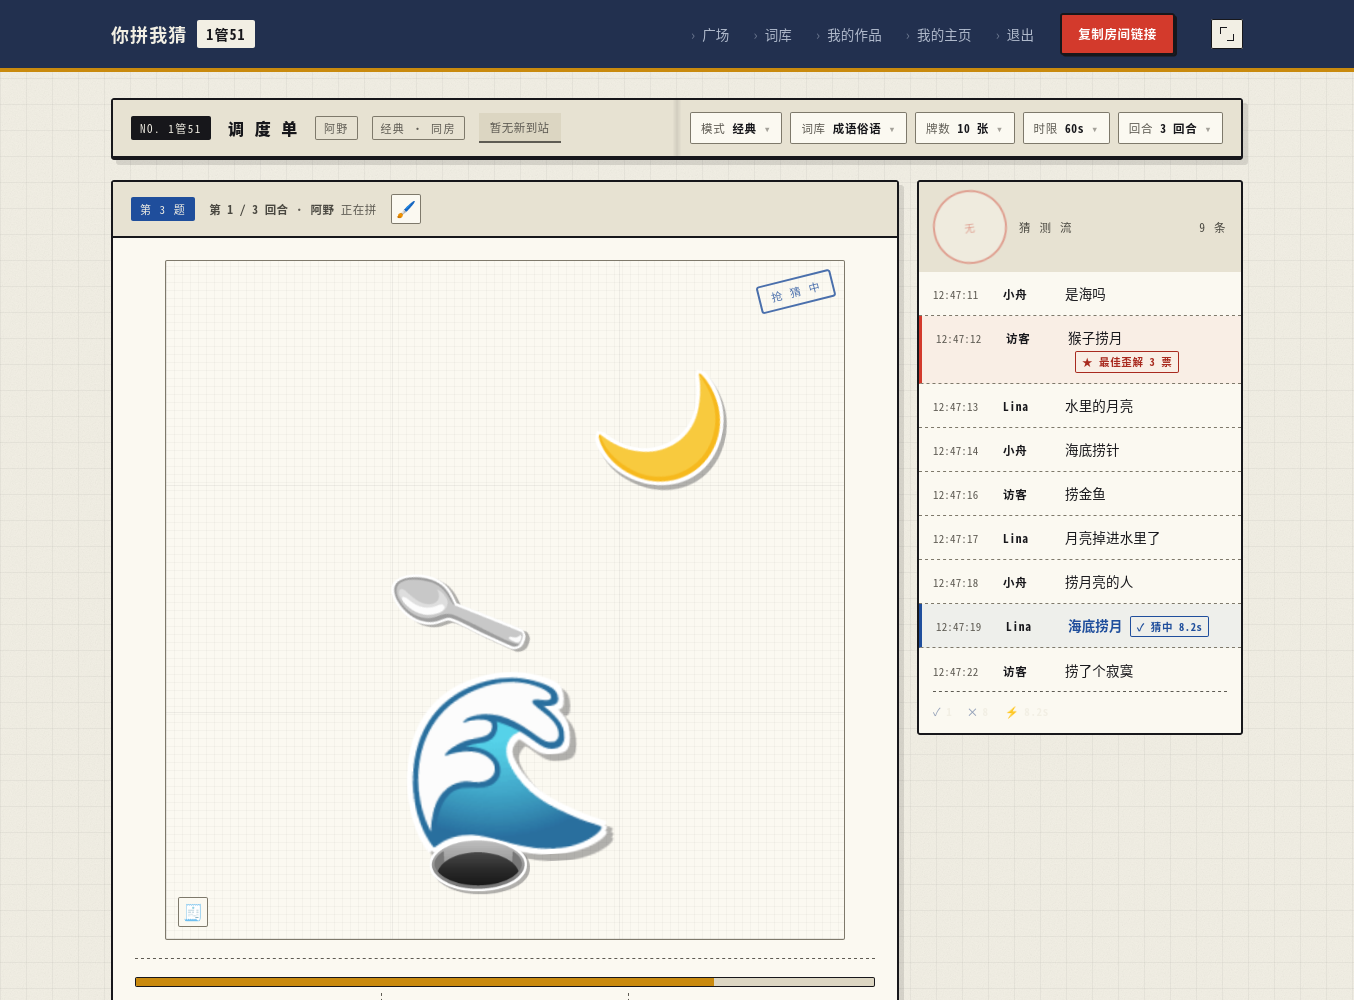
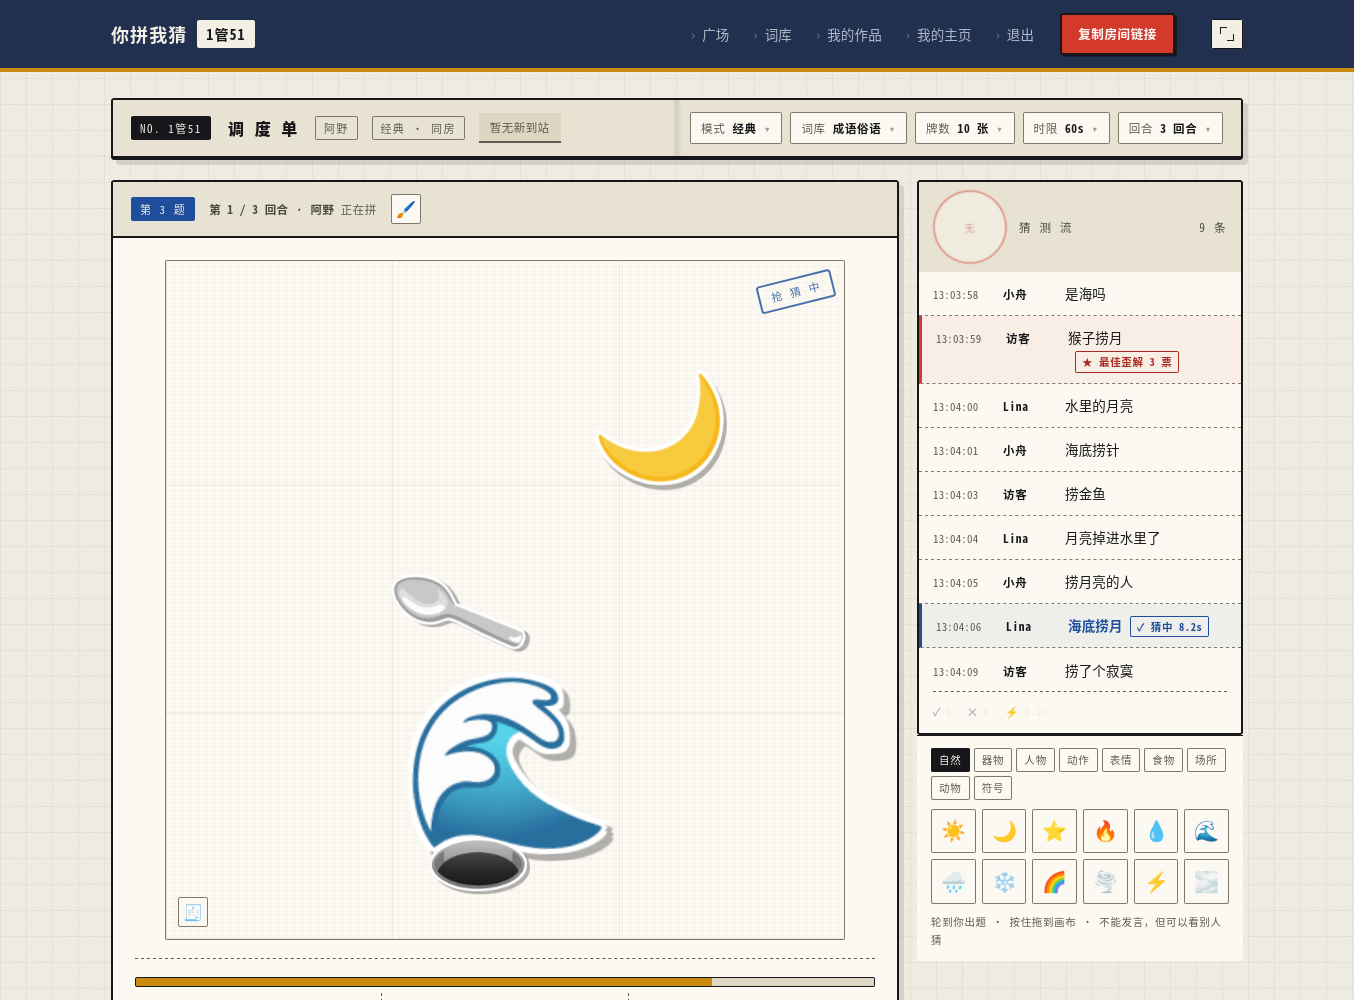
参考《破烂艺术家》的核心设计：一处替换承接两个冲突
用户指出的设计原则（记入 docs/19）：

> 在游戏房间中，绘制和观赏他人绘画的交互逻辑是不变的。
> 绘制和观赏只有两个不同点：**能否交流**、**能否修改画布**。
> 破烂艺术家用**一个修改承接两个逻辑冲突** ——
> 把交流区域中的「发表言论」替换为**素材区**。
> 一次修改，承接多个冲突。我认为这是非常优秀的设计。

## 拆解

多数人会做**两套界面**（绘制模式 / 观赏模式），各自摆面板、各自维护状态，
然后慢慢长歪。

它的做法是**界面只有一套**：

    同一块侧栏
    ├── 上面的交流记录    —— 两模式完全相同
    └── 底部的输入槽      —— 唯一差异点
            观赏态 → 发表言论（画布只读）
            绘制态 → 素材区  （画布可改，且不能发言）

**关键不在"换了什么"，而在"只换一处"** —— 因为两个冲突本来就同源：
*能改画布的人，就是不能说话的人*。它们该由**一个**开关驱动。

## 落地（房间页）

新增 `.flow-slot` —— 就是那个槽。`paintSlot()` 是唯一的开关：

    const isMe = drawer().n === ME;        // 轮到我画 = 绘制态
    canvas.classList.toggle("view-only", !isMe);
    slot.innerHTML = isMe ? 素材区 : (发表言论 + 发送 + 👍点赞)

- **素材数据与拼图台同一套**（`LIB`），不是抄一份
- 画布不是两套 —— 同一个画布挂 `.view-only`
- 挂在 `paintTurn()` 里，跟回合推进自动切

实测两态：绘制态 = 素材区；观赏态 = 输入框 + 发送 + 点赞 12。
上面的交流记录两态完全一致（绘制者「可以看别人交流并点赞」）。

## 这条原则的普适形式

我在同一件事上犯过至少三次同样的错 —— **给同源的冲突各配一个开关**：
`.bench` 的 6 条冲突定义、画布尺寸两页各写一套、`.col` 的 padding 修一边漏一边。

**同源的冲突，由一个开关驱动；一处替换，胜过两处分别维护。**

Changed region(s): [[0.6764, 0.744, 0.8917, 0.961]]

diff --git a/app/room.html b/app/room.html
@@ -233,6 +233,35 @@ footer.site a[aria-current]{color:var(--amber-lit)}
    用户要求「同一窗口尺寸下房间和拼图台画布大小应该一样」，
    左右两栏的宽度必须逐像素一致，画布才能一致。 */
 .grid3:not(.settled){grid-template-columns:minmax(0,1fr) 326px}
+
+/* ── 输入槽：绘制 / 观赏唯一的差异点 ───────────────────────────
+   参考《破烂艺术家》：一个修改承接两个逻辑冲突。
+   槽位本身不变，只换内容。 */
+.flow-slot{border-top:1.5px solid var(--ink);padding:12px 14px;
+  background:var(--paper-4);border-radius:0 0 var(--radius,2px) 2px}
+.flow-slot .say{display:flex;gap:8px;align-items:center}
+.flow-slot .say input{flex:1;min-width:0;font-family:var(--mono);font-size:12.5px;
+  padding:8px 10px;border:1.5px solid var(--ink);border-radius:2px;
+  background:var(--paper-4);color:var(--ink)}
+.flow-slot .say input::placeholder{color:var(--ink-2)}
+.flow-slot .say .like{white-space:nowrap}
+/* 绘制态：同一位置换成素材区 */
+.flow-slot .lib-tabs{display:flex;flex-wrap:wrap;gap:4px;margin-bottom:9px}
+.flow-slot .lib-tabs button{font-family:var(--mono);font-size:10.5px;letter-spacing:.08em;
+  padding:3px 7px;border:1.5px solid var(--ink-4);border-radius:2px;
+  background:var(--paper-4);color:var(--ink-3);cursor:pointer;line-height:1.5}
+.flow-slot .lib-tabs button.on{background:var(--ink);border-color:var(--ink);color:var(--paper)}
+.flow-slot .lib-grid{display:grid;grid-template-columns:repeat(6,minmax(0,1fr));gap:6px}
+.flow-slot .lib-grid button{aspect-ratio:1;display:grid;place-items:center;
+  font-family:var(--emoji);font-size:20px;line-height:1;
+  background:var(--paper-4);border:1.5px solid var(--ink-4);border-radius:2px;
+  cursor:grab;padding:0;touch-action:none}
+.flow-slot .lib-grid button:hover{border-color:var(--ink);box-shadow:2px 2px 0 var(--ink)}
+.flow-slot .lib-note{margin-top:9px;font-family:var(--mono);font-size:10.5px;
+  letter-spacing:.06em;color:var(--ink-3)}
+/* 画布：观赏态只读 —— 不是换一套画布，是同一个画布不给改 */
+.canvas.view-only{pointer-events:none}
+.canvas.view-only .cv-ctx{pointer-events:auto}
 </style>
 <link rel="manifest" href="manifest.webmanifest">
 <meta name="theme-color" content="#22304F">
@@ -346,6 +375,15 @@ footer.site a[aria-current]{color:var(--amber-lit)}
           <!-- 合计：emoji 说名词，数字是内容（律五） -->
           <div class="flow-sum" id="flowSum"></div>
         </div>
+        <!-- ── 输入槽：绘制与观赏的**唯一**结构差异 ─────────────────
+             参考《破烂艺术家》的做法：绘制与观赏的交互逻辑不变，
+             只有两个冲突点 —— 能否交流、能否改画布。
+             而**一处替换同时承接两者**：
+               观赏态 → 这里是「发表言论」（画布只读，因为你改不了）
+               绘制态 → 这里换成**素材区**（画布可改，且不能发言 ——
+                        会画的人一说话就把谜底说了）
+             槽位不变、位置不变、尺寸不变，只换里面的东西。 -->
+        <div class="flow-slot" id="flowSlot"></div>
       </section>
 
     </div>
@@ -444,6 +482,58 @@ function reanim(el,cls){
 let limit=LIMIT0, elapsed=13, round=3, pieceI=OPEN, pi=0, joined=false, noteT=0;
 let unread=0, copies=0, stubs=0, stampI=0, castN=0;
 const prevSc={};
+
+
+/* ── 素材库数据：与拼图台**同一套**（一份定义，两处共用）─────────
+   绘制态时它出现在猜测流面板底部的输入槽里 —— 这就是那个
+   「一个修改承接两个冲突」的那一处修改。 */
+const LIB={
+  "自然":["☀","🌙","⭐","🔥","💧","🌊","🌧","❄","🌈","🌪","⚡","🌫"],
+  "器物":["🪵","🧯","🔪","🔨","🚪","🪜","🧲","⏰","🔑","💡","📌","🧱"],
+  "人物":["🧑","👶","👴","🧑🍳","🧑🚒","🕵","👮","🧑🌾","🎅","👻"],
+  "动作":["🏃","🤝","👀","🗣","🚶","🙇","🤸","🧗","🕺","💃"],
+  "表情":["😂","😭","😡","😱","🤔","😴","🥶","🥵","😊","🤯"],
+  "食物":["🍚","🍜","🍎","🍞","🍵","🍶","🥚","🍖","🧂","🍯"],
+  "场所":["🏠","🏢","🏫","🏥","🚉","🏭","🏪","🏝","🌉","🏰"],
+  "动物":["🐶","🐱","🐟","🐦","🐍","🐘","🦊","🐝","🦀","🐢"],
+  "符号":["❓","❗","💤","💥","♻","⭕","❌","✅","⬆","⬇"]
+};
+const LIB_KEYS=Object.keys(LIB);
+let libCur=LIB_KEYS[0];
+/* 「我」是谁 —— 房间的所有者，也是这一局的出题人之一。
+   房间头部的 .tag-out 就是这个名字。 */
+const ME="阿野";
+
+/* ── 输入槽：绘制 / 观赏**唯一的**结构差异 ──────────────────────
+   参考《破烂艺术家》：
+     · 绘制与观赏的交互逻辑不变（同一个画布、同一套操作）
+     · 只有两个不同点：能否交流、能否修改画布
+     · **一处替换同时承接两者** —— 把交流区的「发表言论」换成素材区
+   所以这里不建两套界面，只换这一个槽的内容。 */
+function paintSlot(){
+  const slot=$("flowSlot"); if(!slot) return;
+  const d=drawer();
+  const isMe = d && d.n===ME;          // 轮到我画 = 绘制态
+  const cv=$("canvas");
+  if(cv) cv.classList.toggle("view-only", !isMe);
+  if(isMe){
+    /* 绘制态：素材区。不能发言（一说话就把谜底说了），但别人说的照样看得见。 */
+    slot.innerHTML =
+      '<div class="lib-tabs">'+LIB_KEYS.map(k=>
+        `<button type="button" data-k="${k}" class="${k===libCur?"on":""}">${k}</button>`).join("")+'</div>'+
+      '<div class="lib-grid">'+LIB[libCur].map(g=>
+        `<button type="button" title="拖到画布上">${g}</button>`).join("")+'</div>'+
+      '<div class="lib-note">轮到你出题 · 按住拖到画布 · 不能发言，但可以看别人猜</div>';
+  } else {
+    /* 观赏态：发表言论。画布只读 —— 因为你改不了，这是同一个冲突的另一面。 */
+    slot.innerHTML =
+      '<div class="say">'+
+        '<input id="sayIn" type="text" placeholder="发表你的猜测" maxlength="20">'+
+        '<button class="btn sm" type="button" id="sayBtn">发 送</button>'+
+        '<button class="btn sm ghost" type="button" id="likeBtn" title="给这一笔点赞">👍 <b id="likeN">12</b></button>'+
+      '</div>';
+  }
+}
 
 /* ---------- 4. 渲染 ---------- */
 function renderChips(){
@@ -587,6 +677,7 @@ function liveSeats(){ return SEATS.filter(p=>p.st!=="offline"); }
     const d=drawer();
     if(roundV) roundV.textContent="第 "+Math.max(1,round)+" / "+roundMax+" 回合";
     if(whoV)  whoV.textContent=d?d.n:"—";
+    paintSlot();   /* 绘制/观赏分岔就在这一处 */
   }
   /* ── 一局 = 若干回合；一个回合 = 每个在线玩家各出一次题 ──────
        用户：「按顺序每个玩家玩一遍，每个玩家玩一遍就算一个回合。」 */

diff --git a/docs/19-design-ref-scrap-artist.md b/docs/19-design-ref-scrap-artist.md
@@ -1,0 +1,76 @@
+# 参考设计：《破烂艺术家》的「一处替换承接两个冲突」
+
+来源：[手游那点事专访](http://www.nadianshi.com/2026/08/417676) ·
+截图存于 [refs/scrap-artist](refs/scrap-artist/README.md)
+
+## 用户的原话（这条是本项目的设计原则）
+
+> 在游戏房间中，绘制和观赏他人绘画的交互逻辑是不变的。
+> 在破烂艺术家中，绘制和观赏时交互逻辑只有两个不同点：
+> **能否交流**（会画的人不能透露信息，所以不能交流，但可以看别人交流并点赞）、
+> **能否修改画布**。
+>
+> 破烂艺术家用**一个修改承接两个逻辑冲突**，
+> 将交流区域中的**发表言论替换为素材区**。
+> **一次修改，承接多个冲突。** 我认为这是非常优秀的设计，你要参考这个逻辑。
+
+## 拆解
+
+多数人会怎么做：**做两套界面** —— 一套「绘制模式」，一套「观赏模式」，
+各自摆放面板、各自维护状态。代价是两套界面会慢慢长歪。
+
+《破烂艺术家》的做法：**界面只有一套**。
+
+    同一块侧栏
+    ├── 上面的交流记录      —— 两个模式**完全相同**
+    └── 底部的输入槽        —— 两个模式**唯一的差异点**
+            观赏态 → 「发表言论」       （画布只读：你改不了）
+            绘制态 → **素材区**         （画布可改；且不能发言 —— 一说话就泄底）
+
+**一处替换，同时承接了两个冲突**：
+
+| 冲突 | 由这一处替换如何解决 |
+|---|---|
+| 能否交流 | 槽里是素材区时，就没有发言入口 |
+| 能否修改画布 | 槽里是素材区时，画布才可改 —— 两者由**同一个状态**驱动，不可能不同步 |
+
+**关键不在"换了什么"，而在"只换一处"** —— 因为两个冲突本来就同源：
+*能改画布的人，就是不能说话的人*。所以它们该由**一个**开关驱动，
+而不是两个各自维护的布尔值。
+
+## 我们怎么落地（房间页）
+
+`.flow-slot`（新增）就是那个槽。`paintSlot()` 是唯一的开关：
+
+    function paintSlot(){
+      const d = drawer();
+      const isMe = d && d.n === ME;          // 轮到我画 = 绘制态
+      canvas.classList.toggle("view-only", !isMe);
+      if(isMe)  slot.innerHTML = 素材区;      // 分类 tab + emoji 网格
+      else      slot.innerHTML = 发表言论;    // input + 发送 + 👍 点赞
+    }
+
+- **素材数据与拼图台同一套**（`LIB`），不是抄一份
+- 画布不是两套 —— **同一个画布**挂 `.view-only` 类
+- `paintSlot()` 挂在 `paintTurn()` 里，跟着回合推进自动切
+
+## 这条原则能推广到本项目其它地方
+
+| 场景 | 当前做法 | 按这条原则 |
+|---|---|---|
+| 绘制 / 观赏 | ~~两套界面~~ 已合并 | ✅ 一处替换 |
+| 游戏中 / 结算 | `hits>0` 时展开玩家列表 | 可考虑：结算时**左栏**从素材区换成玩家列表（同样是"换一处"） |
+| 拼图台 vs 房间 | 两个页面 | 拼图台 = 永远处于「绘制态」的房间 |
+
+## 反例：我之前的做法
+
+我在同一件事上犯过至少三次同样的错 —— **给两个同源的冲突各配一个开关**：
+
+1. `.bench` 有 6 条互相冲突的 `grid-template-columns`（改了没删旧的）
+2. 画布尺寸在两页各写一套（399 vs 427）
+3. `.col` 的 padding 在拼图台修了、房间漏了
+
+**共同点**：同一个决定散在多处，于是必然不同步。
+《破烂艺术家》这条原则的普适形式是：
+
+> **同源的冲突，由一个开关驱动；一处替换，胜过两处分别维护。**

diff --git a/refs/scrap-artist/README.md b/refs/scrap-artist/README.md
@@ -1,0 +1,55 @@
+# 参考：《破烂艺术家》（Perfect Day Studio）
+
+来源：[手游那点事专访](http://www.nadianshi.com/2026/08/417676) ·
+[Steam](https://store.steampowered.com/app/3470550/_/)
+
+**这不是风格参考，这是同类产品的直接竞品** —— 它就是我们这个项目的原型：
+
+> 官宣新作《破烂艺术家》，该作是一款**「你拼我猜」多人联机游戏**……摒弃了常规的
+> 手绘、文字出题形式，创新性地以各类**废旧零件、破铜烂铁拼接造型**作为猜题载体
+
+制作人兼主美 KeKe，2024-07 立项，2025-09 首曝，团队核心 3 人。
+
+## 从访谈里拿到的设计原则
+
+1. **素材归纳为 6 种几何形状** —— 素材库有「每形状最低数量」的约束，
+   保证随机素材的形状多样性，不会随到单一形状。
+2. **颜色**：整体色调统一；塑料更鲜艳明亮，金属更突出**生锈的肌理**。
+3. **「旧」和「脏」是语义不是风格**：
+   > 而《破烂艺术家》其实就是当下，清晰但是有肌理感，
+   > 这种"旧"和"脏"的感觉是因为它们就是**被丢弃的破烂**。
+4. **素材包「过时玩具」** —— 千禧年留下的"破烂"。
+5. **移动 / 缩放 / 翻转都是「比划」的一部分**：
+   > 最早想模拟的就是现实里你面前有一堆东西，拼拼凑凑摆弄和别人比划让人猜的感觉。
+6. **物理反馈是特色**（演示里风扇能手动转起来）。
+7. 灵感来自《艺术创想》(Art Attack)。
+8. 立意：AI 时代「**人人都是艺术家**」——
+   > 这句话里的"人"，永远是那个充满想象力、独特、而不可替代的。
+
+## 截图里读出的界面事实
+
+| 位置 | 内容 |
+|---|---|
+| 左栏（上） | 玩家列表：头像 + 名字 + 猜出的词 |
+| 左栏（下） | 素材库：网格缩略图，每件带**同款数量徽章**（3/1/0/2） |
+| 中右 | **画布：一整块高饱和橙色**，占全屏约 65% |
+| 画布右上 | **答案大字**（「马」，棕底）+ 全选 / 清空 |
+| 画布左上外 | 「回合 1/1」日历小签 |
+| 选中物件 | 黄色角点选框 + 旋转把手 + **竖排工具条**（上移/下移/翻转/删除） |
+
+素材库页（02）里还有：分类货架（过时玩具 / 生锈金属 / 基础破烂）、
+**形状配比统计**（4/3 3/3 3/3 …）、「所有数量 19」、「保存素材库」。
+
+## 与我们项目的差异（值得想清楚的）
+
+| | 破烂艺术家 | 我们 |
+|---|---|---|
+| 画布形状 | **横向大矩形**，填满中右 | **正方形**（aspect-ratio:1） |
+| 画布底色 | **高饱和橙色** | 米白纸 + 8px 稿纸格 |
+| 素材 | 写实 3D 渲染的实物，有锈迹肌理 | emoji |
+| 界面语言 | 篝火 / 灯泡小人 / 手绘装饰 | **1管51 机构的单据与印章** |
+| 答案位置 | 画布右上角 | 右栏交题单内 |
+
+**最后一行不是缺陷** —— 单据/印章那套是我们自己的语言，参考游戏没有。
+但**前两行是实打实的差距**：它的画布是「一块可以随便折腾的大桌面」，
+我们的画布是「一张居中的稿纸」。
